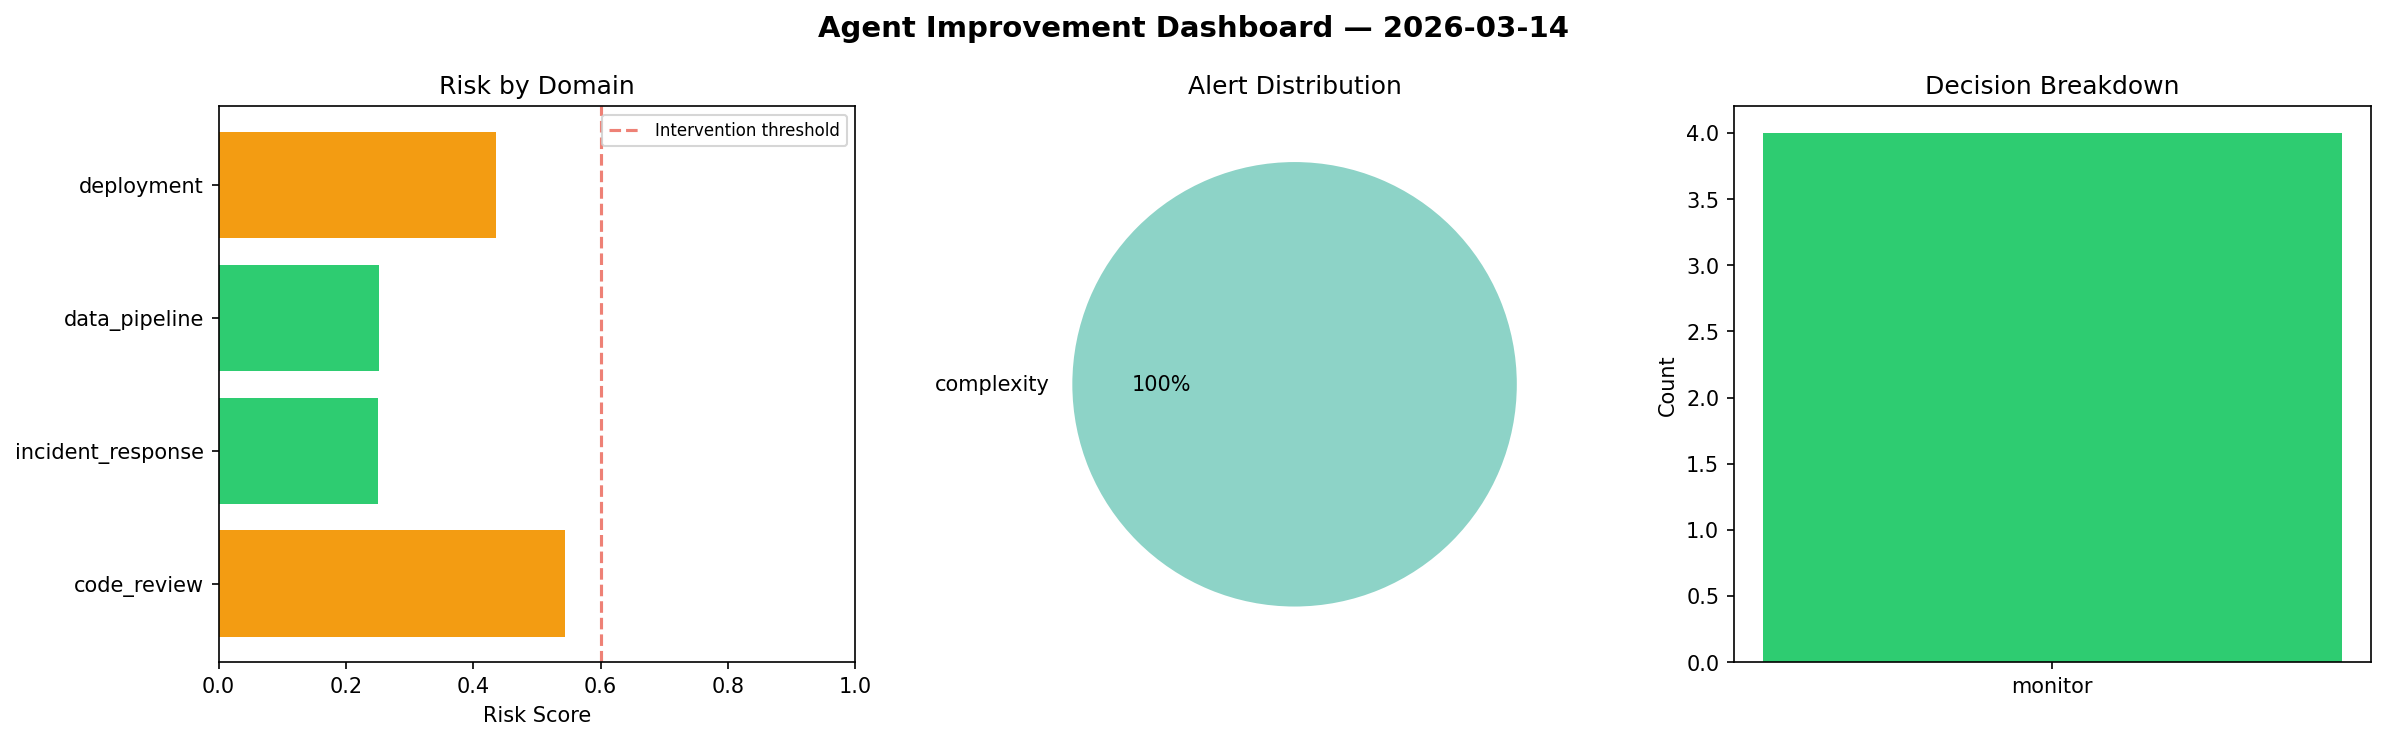
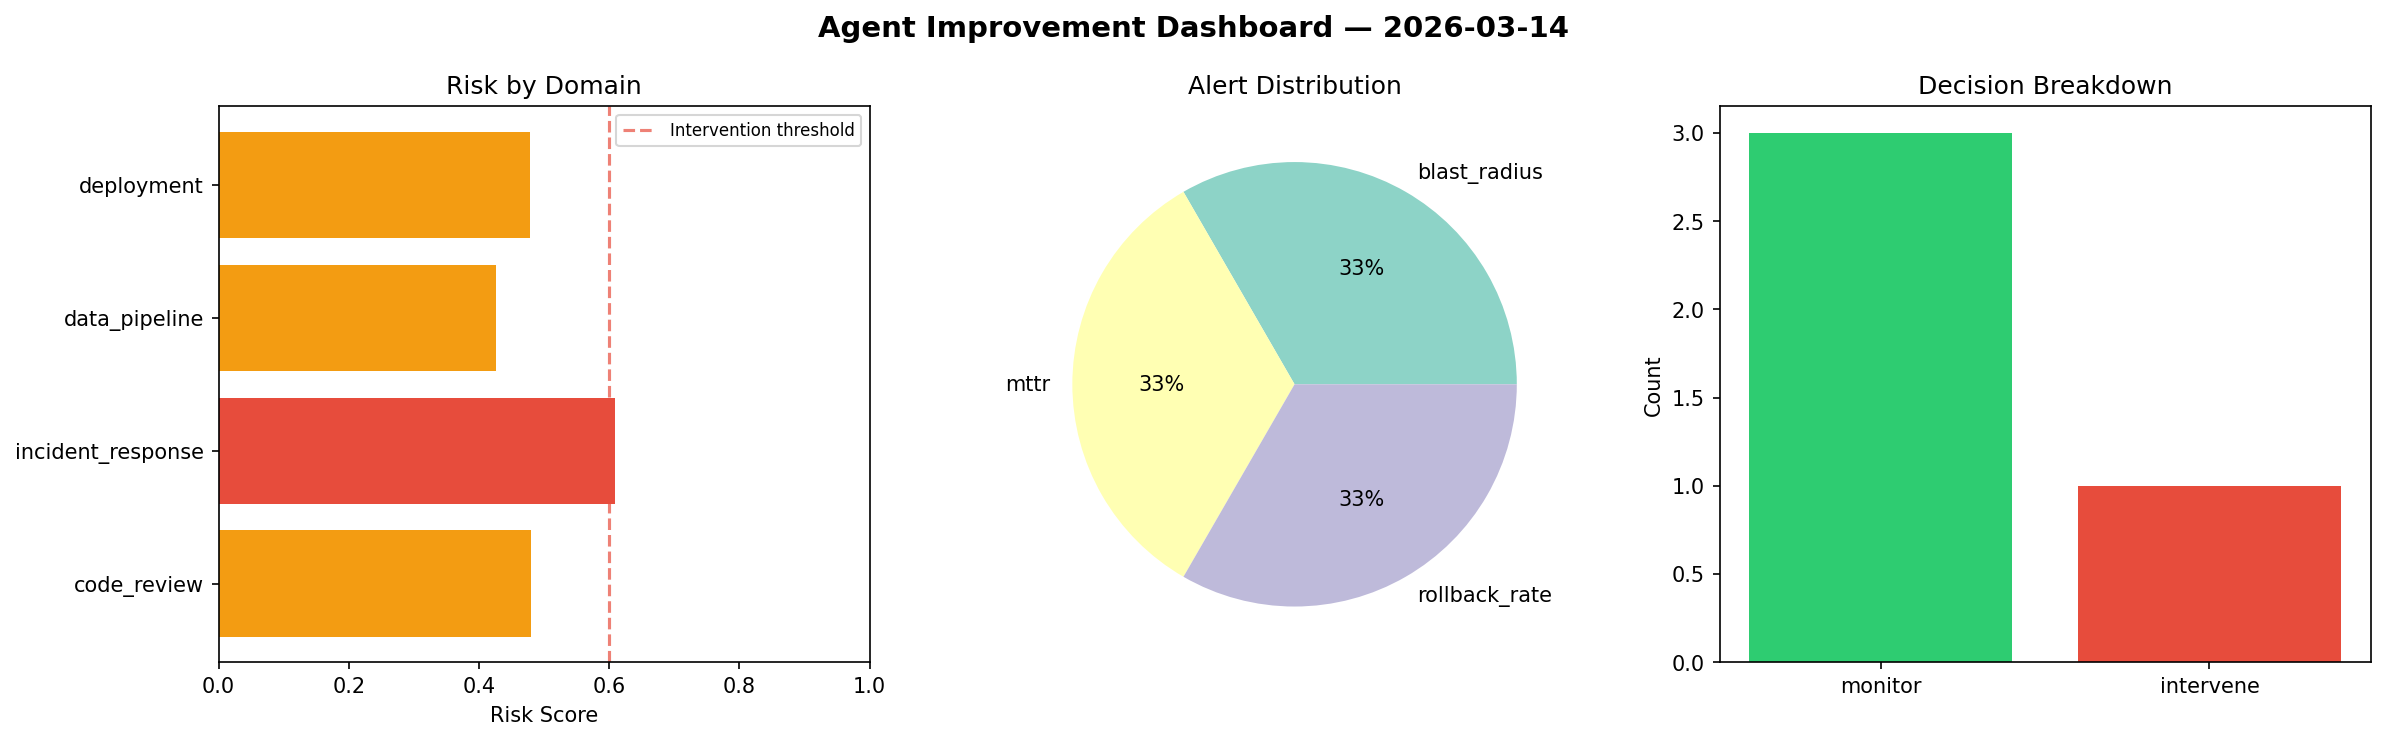
agent-improvement: daily cycle 2026-03-14T14:48

diff --git a/logs/2026-03-14.md b/logs/2026-03-14.md
@@ -1,6 +1,6 @@
 # Agent Improvement Report — 2026-03-14
 
-**Cycle ID:** `0ab1f9ec` | **Avg Risk:** 0.3703 | **Interventions:** 0/4
+**Cycle ID:** `cc4f724b` | **Avg Risk:** 0.4985 | **Interventions:** 1/4
 
 ![Dashboard](2026-03-14_dashboard.png)
 
@@ -10,18 +10,18 @@
 
 | Domain | Risk Score | Decision | Alerts |
 |--------|-----------|----------|--------|
-| code_review | 0.5447 | monitor | complexity |
-| incident_response | 0.2504 | monitor | none |
-| data_pipeline | 0.2512 | monitor | none |
-| deployment | 0.435 | monitor | none |
+| code_review | 0.48 | monitor | none |
+| incident_response | 0.6095 | intervene | blast_radius, mttr |
+| data_pipeline | 0.4258 | monitor | none |
+| deployment | 0.4788 | monitor | rollback_rate |
 
 ## Delta vs Yesterday
 
 | Domain | Today | Yesterday | Change |
 |--------|-------|-----------|--------|
-| code_review | 0.5447 | 0.3781 | 📈 44.1% |
-| incident_response | 0.2504 | 0.37 | 📉 -32.3% |
-| data_pipeline | 0.2512 | 0.411 | 📉 -38.9% |
-| deployment | 0.435 | 0.5368 | 📉 -19.0% |
+| code_review | 0.48 | 0.3781 | 📈 27.0% |
+| incident_response | 0.6095 | 0.37 | 📈 64.7% |
+| data_pipeline | 0.4258 | 0.411 | 📈 3.6% |
+| deployment | 0.4788 | 0.5368 | 📉 -10.8% |
 
 **Refinement:** `{'adjustment': 'maintain', 'trend': 'improving', 'window': 4}`
